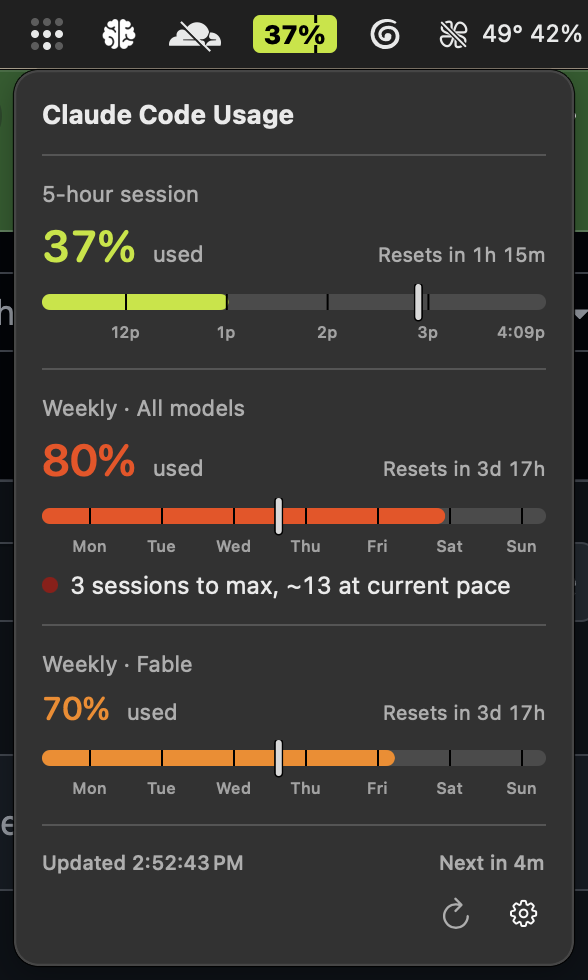
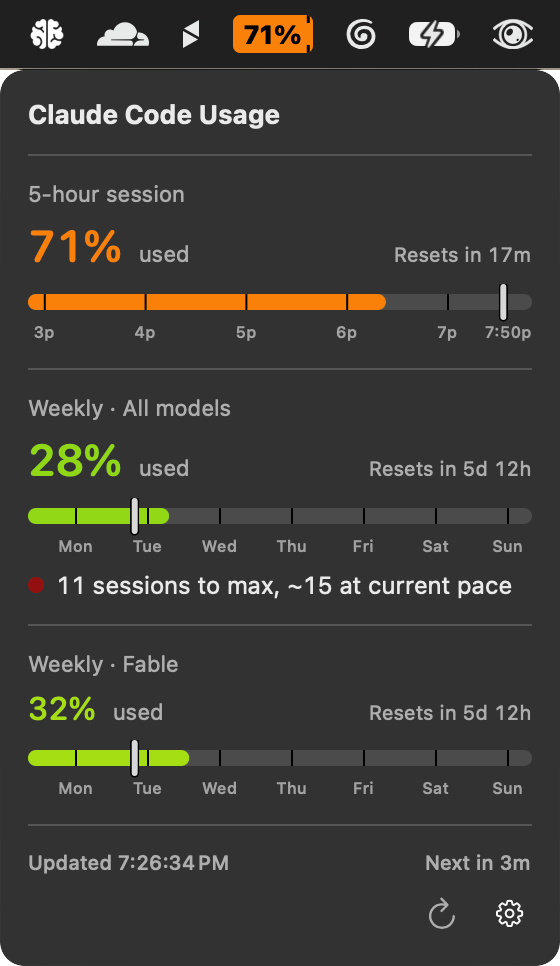
docs: recapture Tahoe screenshot pair — gear-menu footer + 5h progress notches together

diff --git a/README.md b/README.md
@@ -4,7 +4,8 @@ A tiny macOS menubar app that shows how much Claude Code session quota you have
 left, color-coded.
 
 The popover adapts to your macOS version's window styling. On **macOS Tahoe (26)
-and later** (current — the two-icon Refresh + gear footer):
+and later** (current as of 2026-08-03 — two-icon Refresh + gear footer, 5h
+Session Progress notches on the menubar pill):
 
 <p>
   <img width="300" alt="Claude Code Usage popover — light mode, macOS Tahoe" src="docs/Light.png" />
